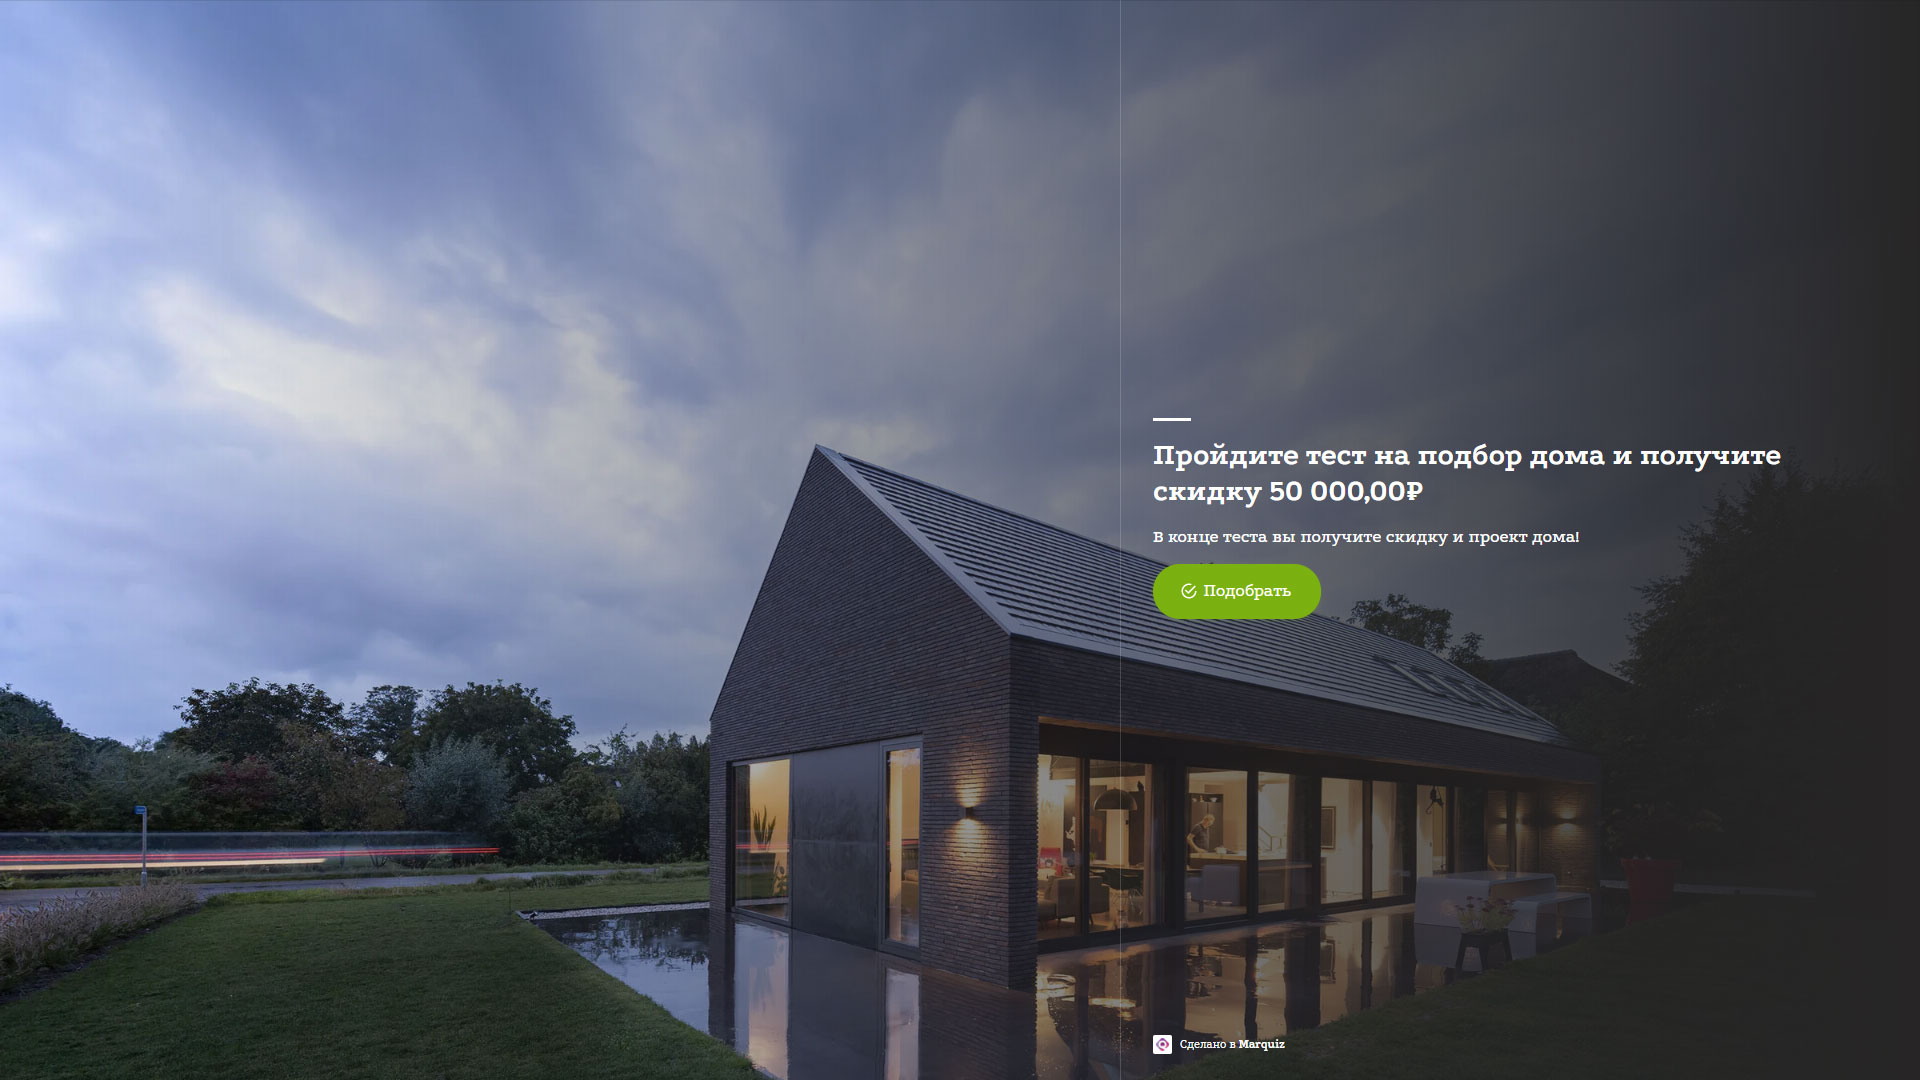
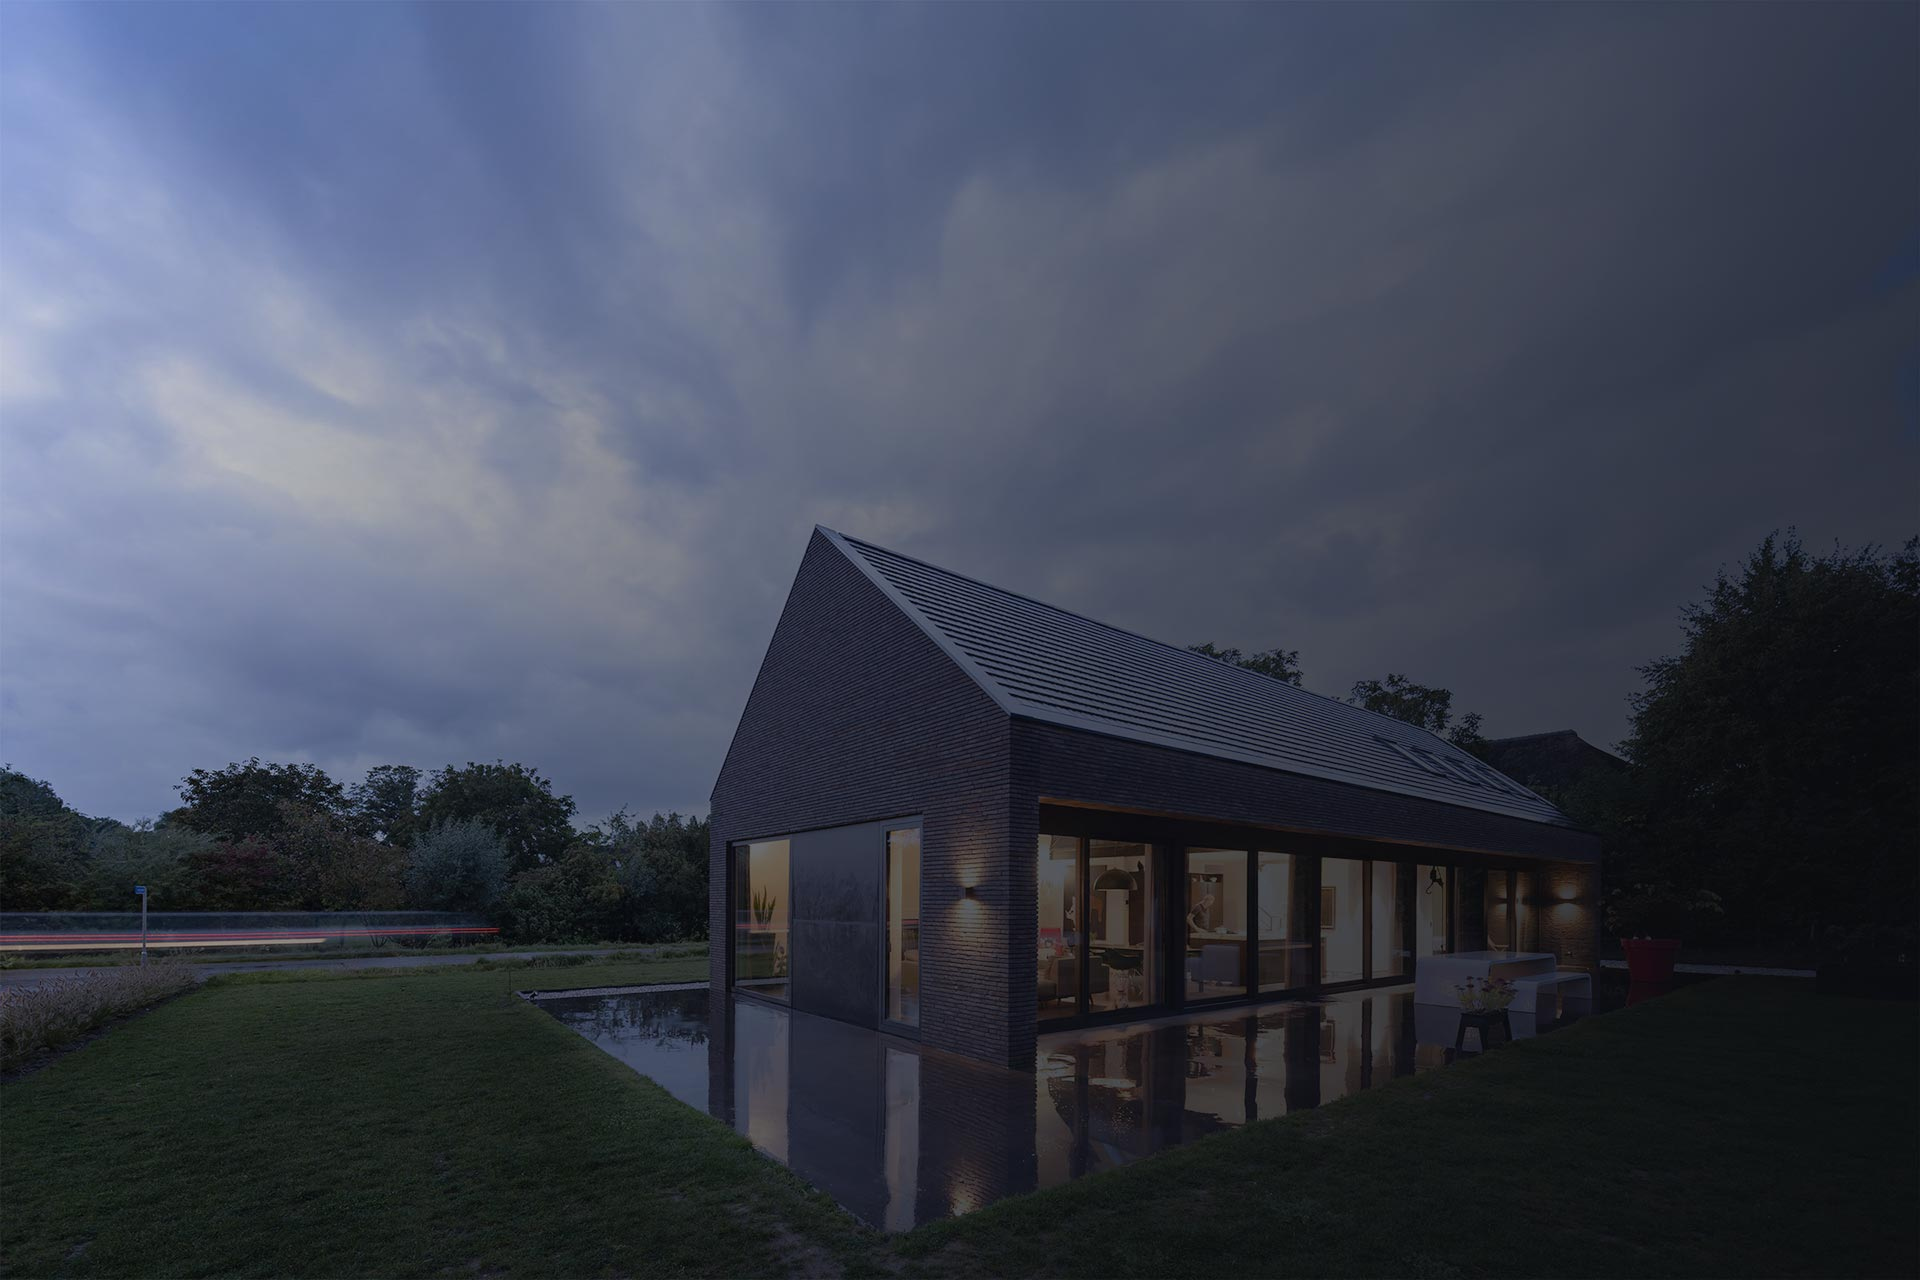
marquiz update

diff --git a/karkas/index.html b/karkas/index.html
@@ -22,7 +22,7 @@
     content="Мы строим, собираем и продаем каркасные дома. Проекты домов отвечают высочайшему стандарту качества и новейшим технологиям строительства в Карелии">
   <meta name="viewport" content="width=device-width, initial-scale=1">
   <link rel="stylesheet" type="text/css" href="../css/semantic.min.css">
-  <link rel="stylesheet" type="text/css" href="../css/styles.css?v20200904">
+  <link rel="stylesheet" type="text/css" href="../css/styles.css?v20200911">
   <!-- Yandex.Metrika counter -->
   <script type="text/javascript">
     (function (m, e, t, r, i, k, a) {
@@ -47,6 +47,20 @@
     <div><img src="https://mc.yandex.ru/watch/67087375" style="position:absolute; left:-9999px;" alt="" /></div>
   </noscript>
   <!-- /Yandex.Metrika counter -->
+  <!-- Marquiz script start -->
+  <script src="//script.marquiz.ru/v1.js" type="application/javascript"></script>
+  <script>
+    document.addEventListener("DOMContentLoaded", function () {
+      Marquiz.init({
+        host: '//quiz.marquiz.ru',
+        id: '5f2b0512096074005572174f',
+        autoOpen: false,
+        autoOpenFreq: 'once',
+        openOnExit: false
+      });
+    });
+  </script>
+  <!-- Marquiz script end -->
 </head>
 
 <body id="karkas">
@@ -235,10 +249,15 @@
           </div>
       </div>
     </section>
-    <section data-section="selection">
+    <section class="sheet-quiz" data-section="selection">
       <div class="wrapper">
-        <h3>Подобрать</h3>
-      </div>
+        <h3>Пройдите тест и получите скидку</h3>
+        <div class="marquiz__container centered">
+          <a class="button yellow wide marquiz__button marquiz__button_blicked" href="#popup:marquiz_5f2b0512096074005572174f"
+            data-fixed-side="" data-alpha-color="rgba(250, 192, 17, 0.5)" data-color="#fac011"
+            data-text-color="#5d2a1f">Пройти тест</a>
+        </div>
+      </div>      
     </section>
     <section class="offers" data-section="packages">
       <div class="wrapper">

diff --git a/brus/index.html b/brus/index.html
@@ -22,7 +22,7 @@
         content="Мы строим, собираем и продаем дома из клееного бруса. Проекты домов отвечают высочайшему стандарту качества и новейшим технологиям строительства в Карелии">
     <meta name="viewport" content="width=device-width, initial-scale=1">
     <link rel="stylesheet" type="text/css" href="../css/semantic.min.css">
-    <link rel="stylesheet" type="text/css" href="../css/styles.css?v20200311">
+    <link rel="stylesheet" type="text/css" href="../css/styles.css?v20200911">
     <!-- Yandex.Metrika counter -->
     <script type="text/javascript">
         (function (m, e, t, r, i, k, a) {

diff --git a/css/styles.css b/css/styles.css
@@ -963,6 +963,18 @@ section.guarantee p {
   text-align: center;
   line-height: 1.54;
 }
+section.sheet-quiz {
+  background: #1f1d17 url("../img/bg_section-2-karkas.jpg") center bottom no-repeat;
+  min-height: 100vh;
+  color: #fbf5e8;
+  background-size: cover;
+}
+section.sheet-quiz .wrapper {
+  padding-top: 6rem;
+}
+section.sheet-quiz .marquiz__container {
+  padding-top: 30vh;
+}
 section.plan {
   padding-left: 0;
   padding-right: 0;
@@ -2111,6 +2123,9 @@ form fieldset {
   }
   section.wood-house {
     background-size: cover;
+  }
+  section.sheet-quiz .marquiz__container {
+    padding-top: 50vh;
   }
   section[data-section="houses"] .slick-slide {
     min-height: 253px;

diff --git a/less/styles.less b/less/styles.less
@@ -551,6 +551,18 @@ section.guarantee {
     }
 }
 
+section.sheet-quiz {
+    background: @color-night url("../img/bg_section-2-karkas.jpg") center bottom no-repeat;
+    min-height: 100vh;
+    color: @color-hose;
+    background-size: cover;
+    .wrapper {
+        padding-top: 6rem;
+    }
+    .marquiz__container {
+        padding-top: 30vh;
+    }    
+}
 section.plan {
     padding-left: 0;
     padding-right: 0;

diff --git a/less/media-1280.less b/less/media-1280.less
@@ -122,6 +122,11 @@
     section.wood-house {
         background-size: cover;
     }
+    section.sheet-quiz {
+        .marquiz__container {
+            padding-top: 50vh;
+        }
+    }
     section[data-section="houses"] {
         .slick-slide {
             min-height: 253px;
